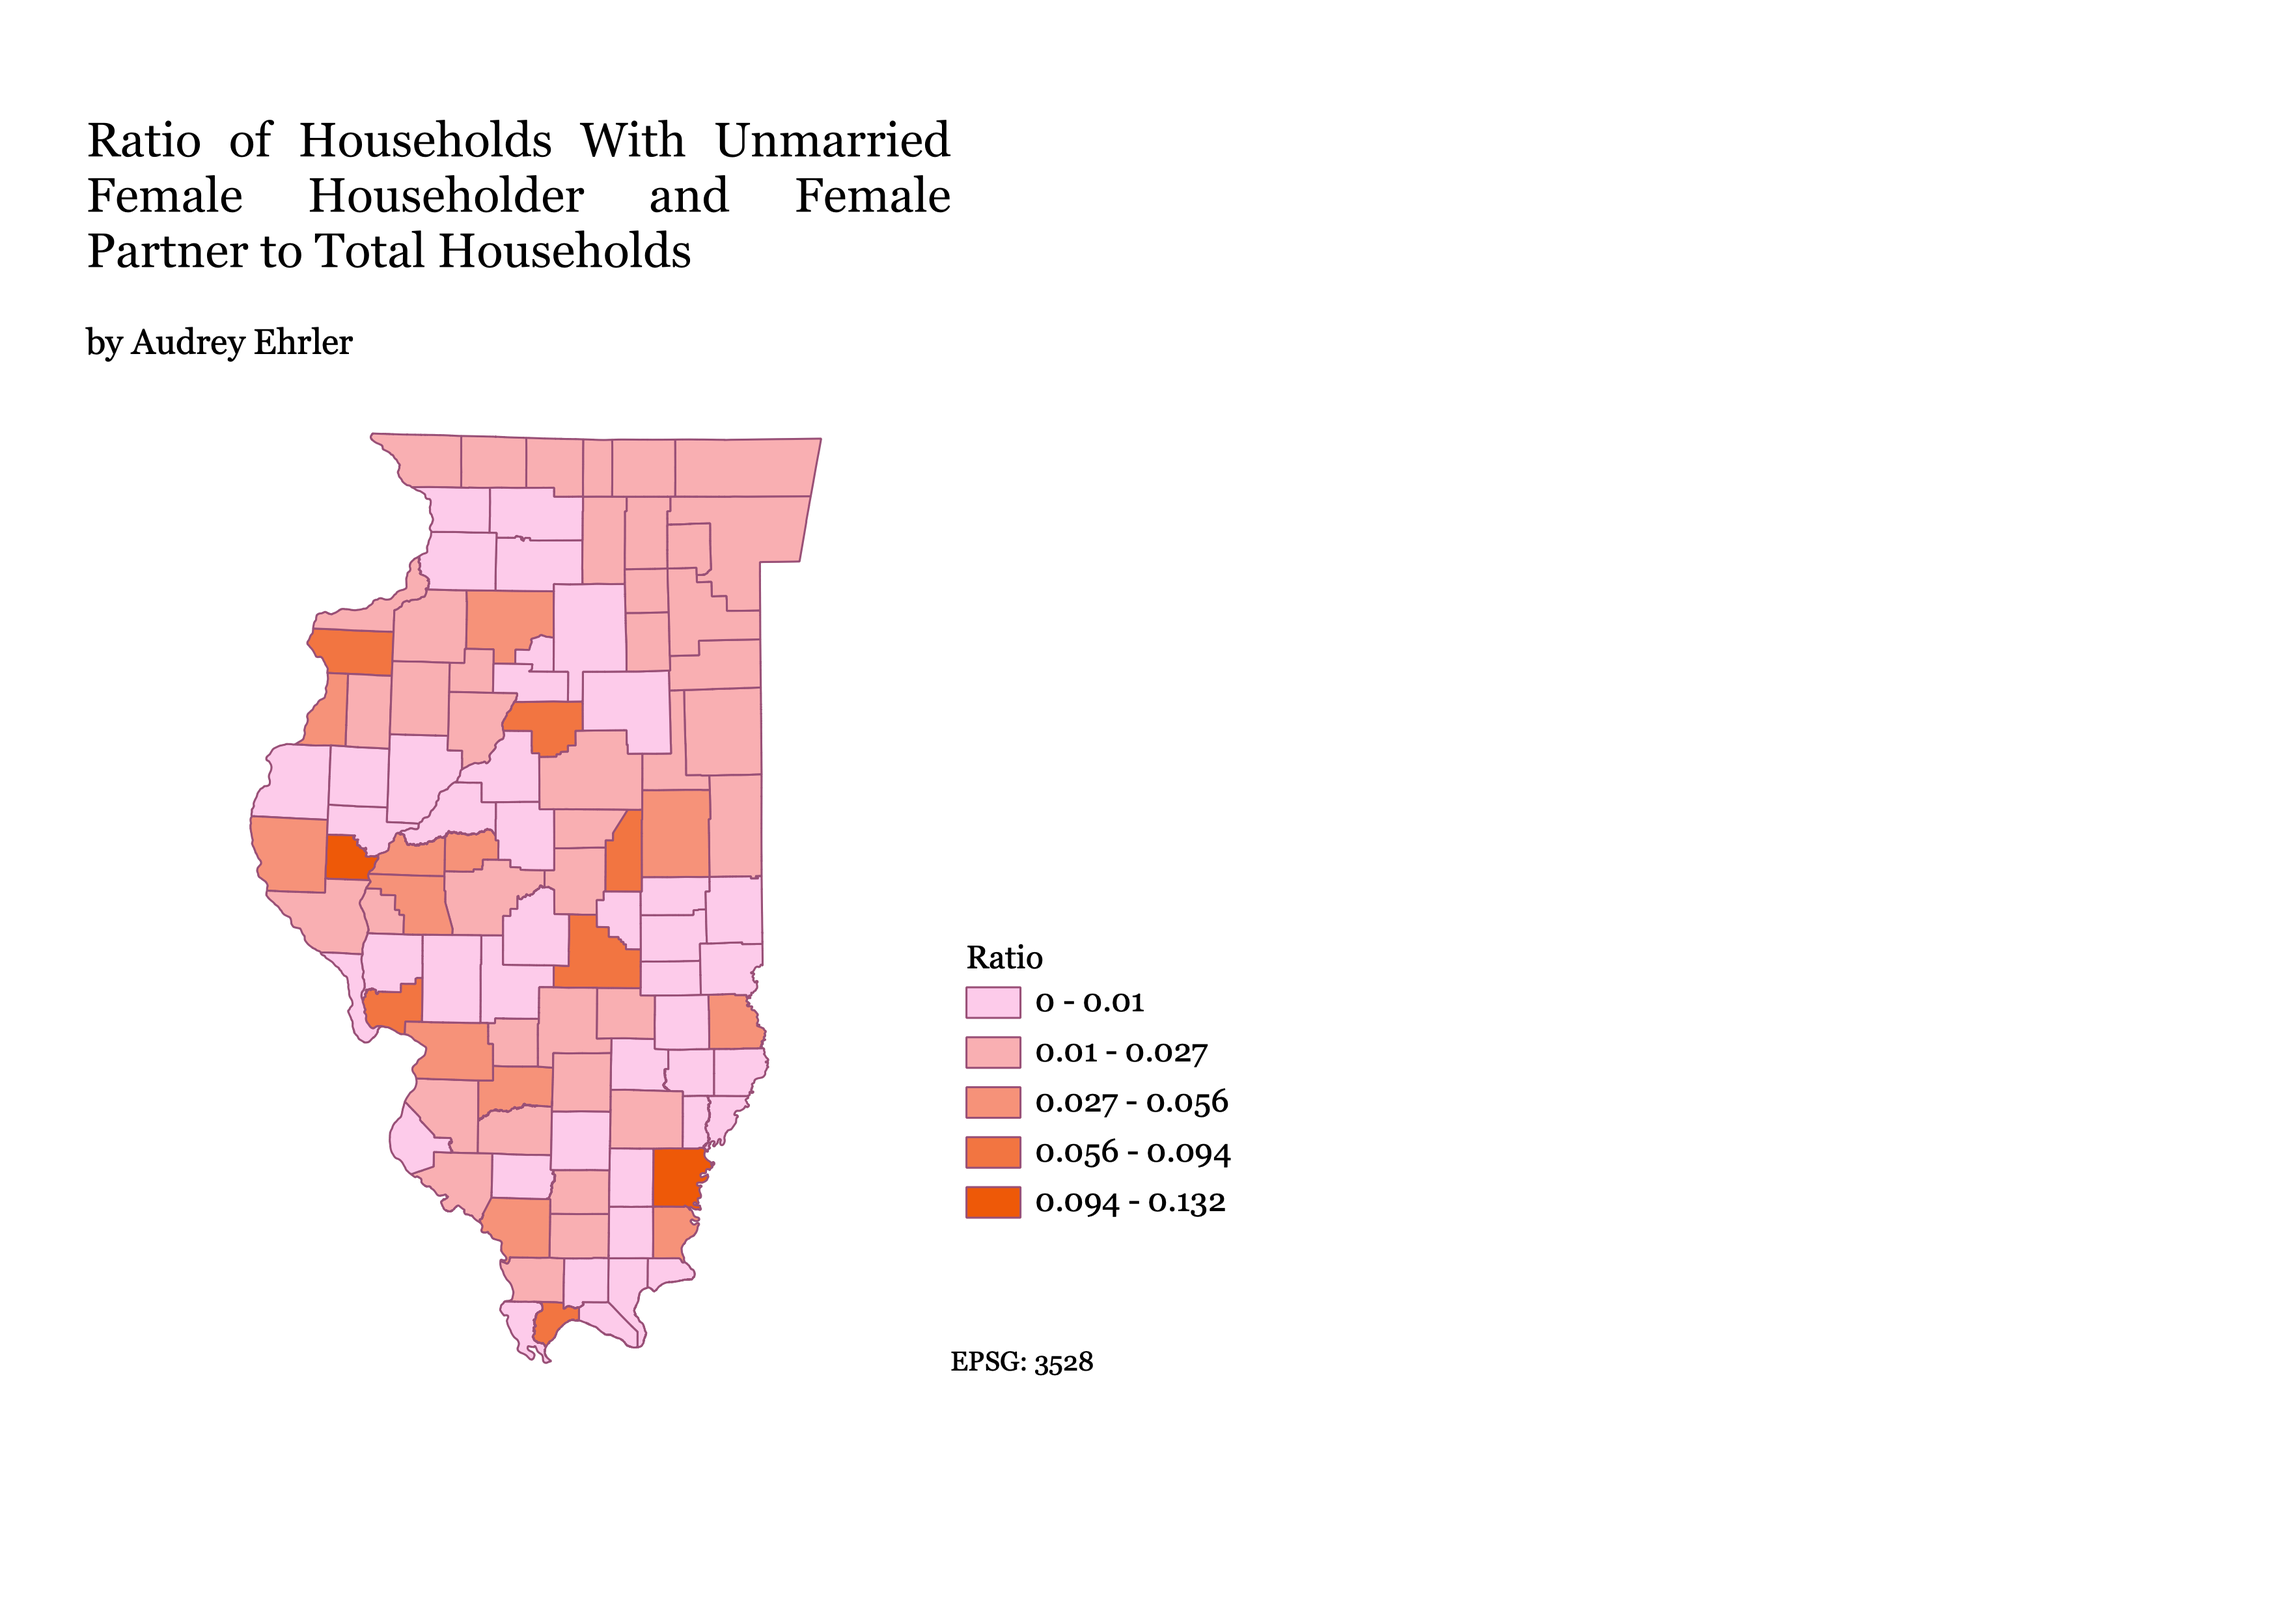
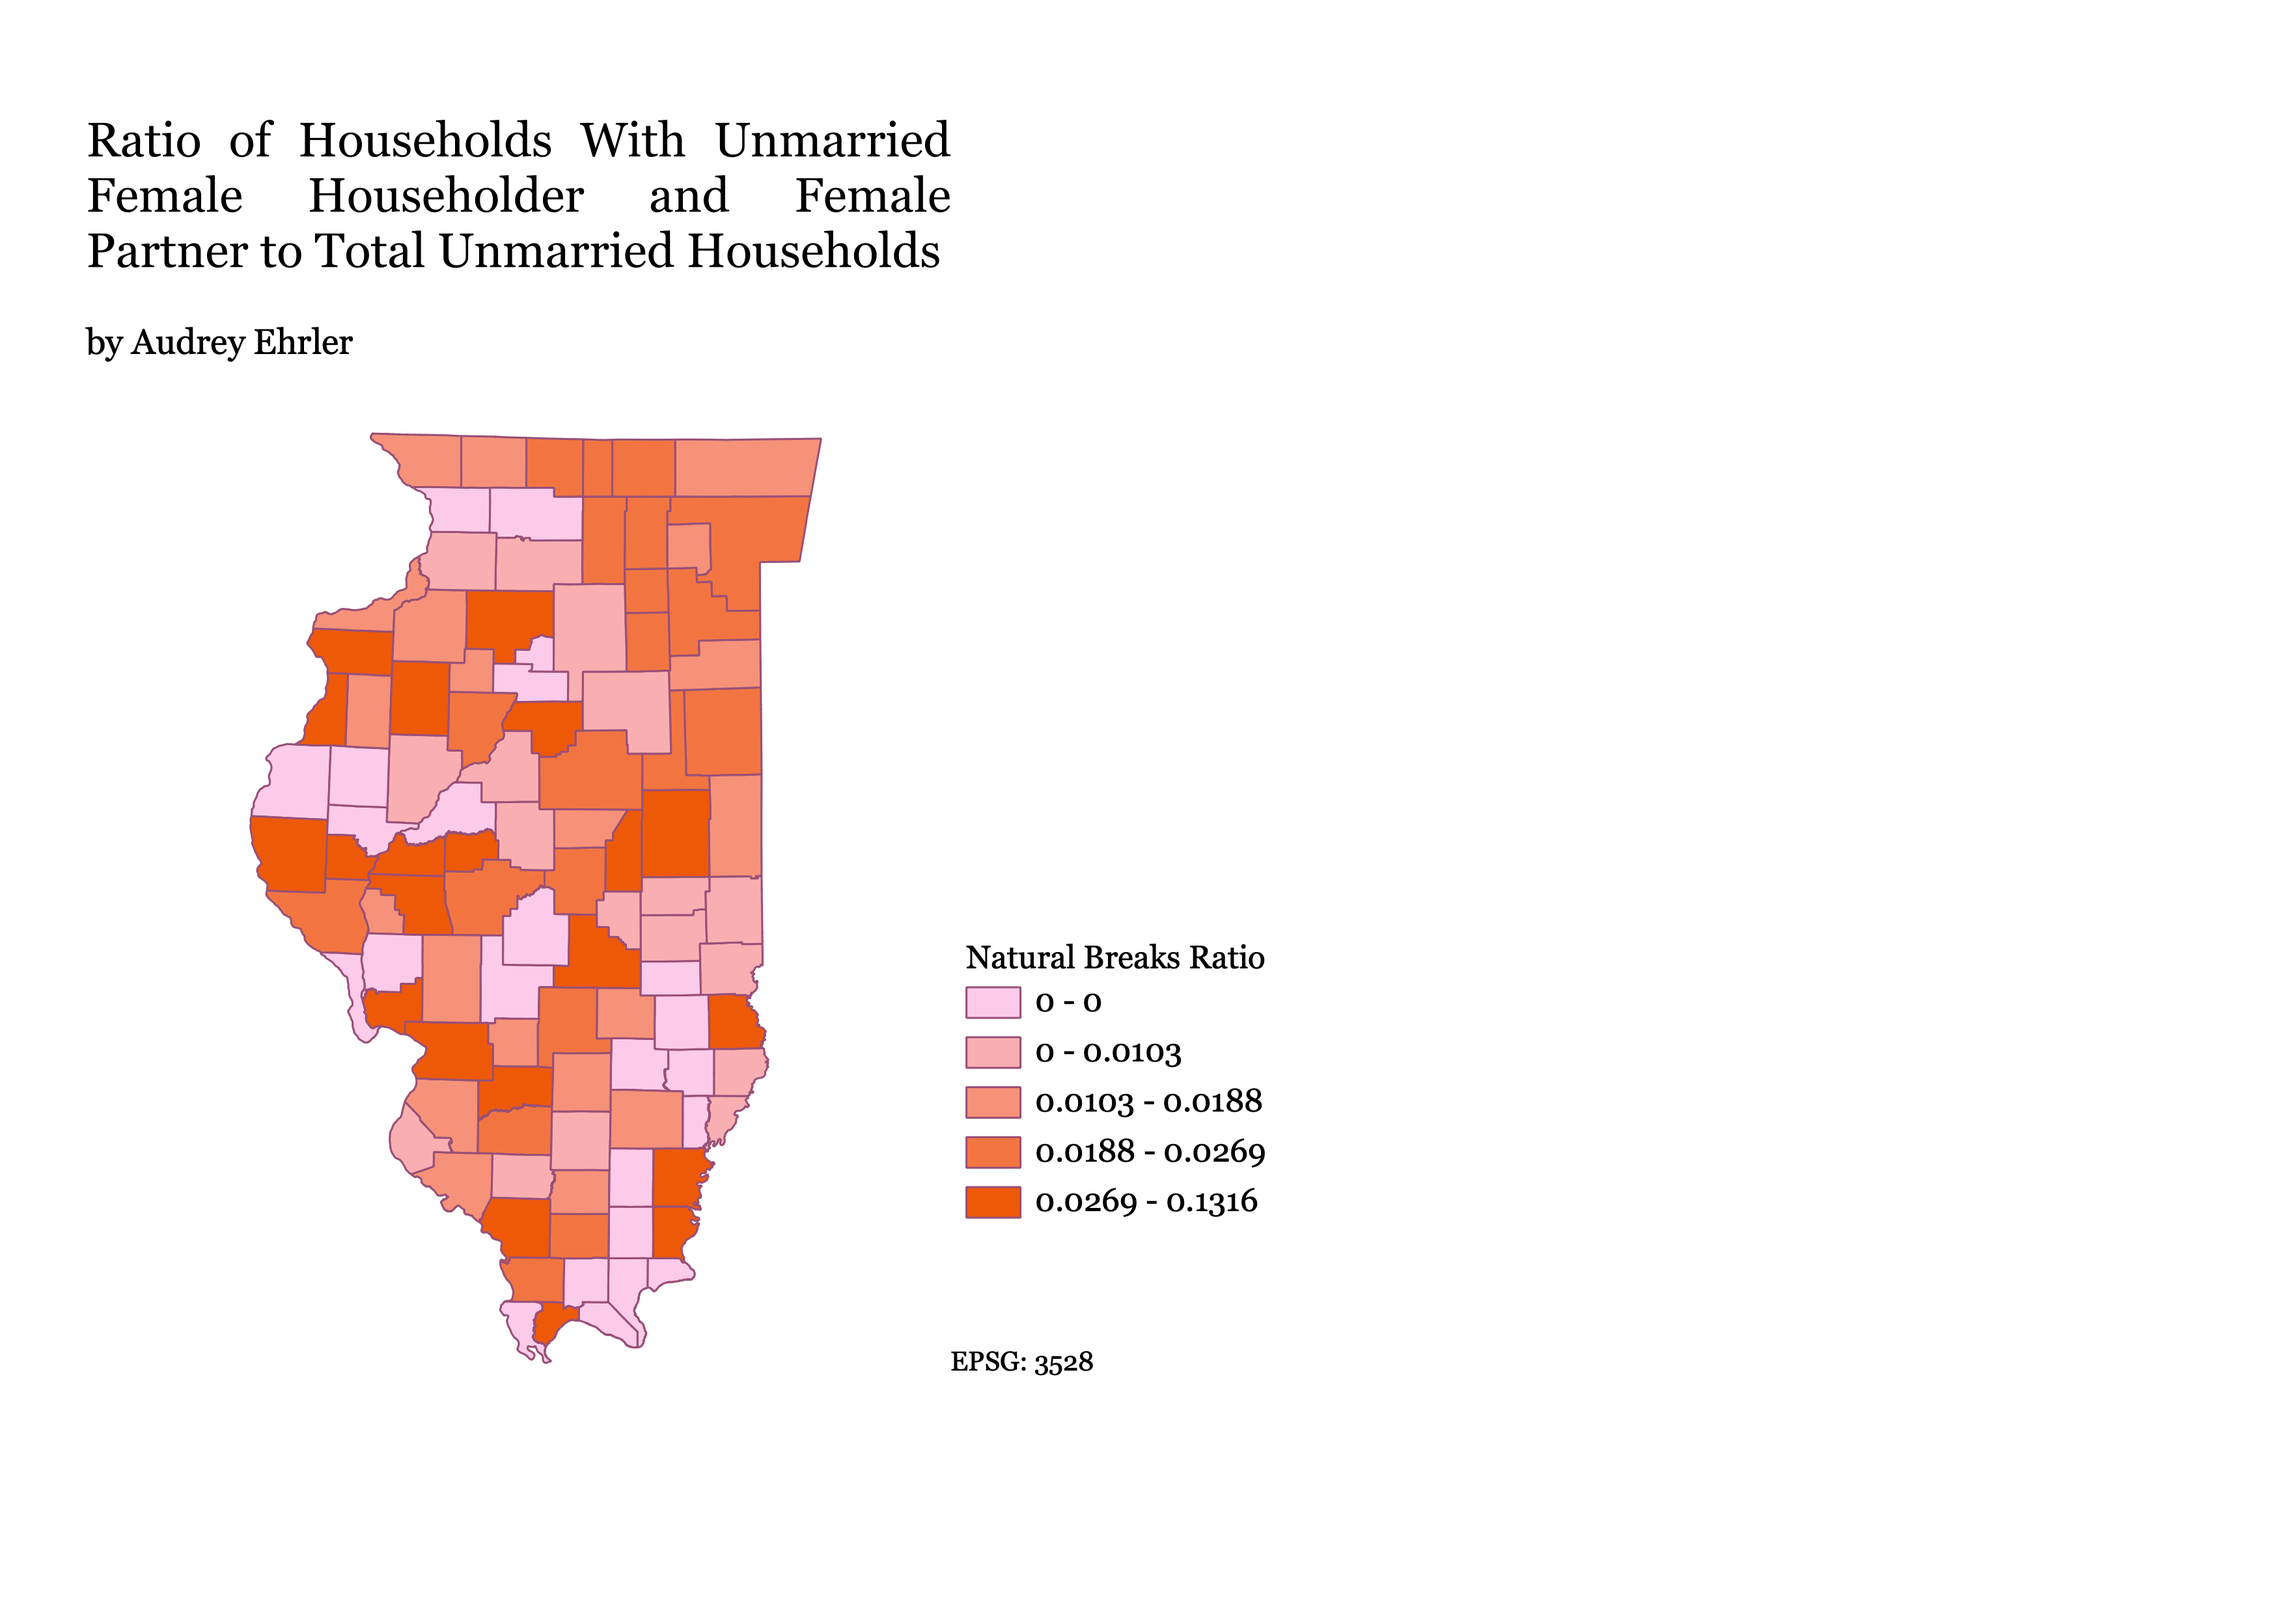
u[date

Changed region(s): [[0.0932, 0.2484, 0.373, 0.8383], [0.4351, 0.5899, 0.5595, 0.7452], [0.2176, 0.1242, 0.404, 0.1863]]

diff --git a/HW6.2/hw62.html b/HW6.2/hw62.html
@@ -9,5 +9,9 @@
 <body>
     <a href="./hw62.png">
         <img src="./hw62.png" alt:"HW6" width='500px'> 
+        <a href="./hw62equalcount.png">
+            <img src="./hw62equalcount.png" alt:"HW6" width='500px'> 
+            <a href="./hw62equalinterval.png">
+                <img src="./hw62equalinterval.png" alt:"HW6" width='500px'> 
 </body>
 </html>
